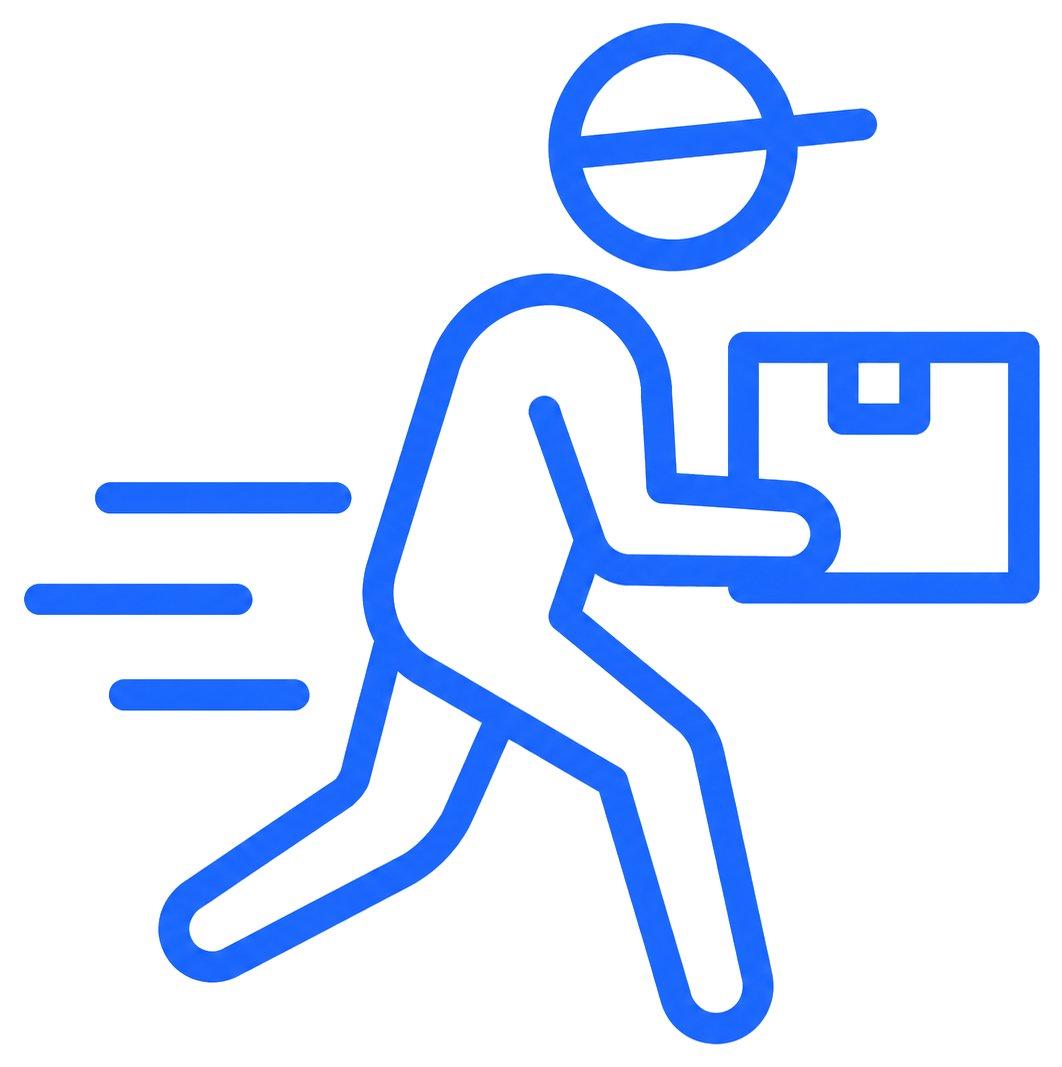
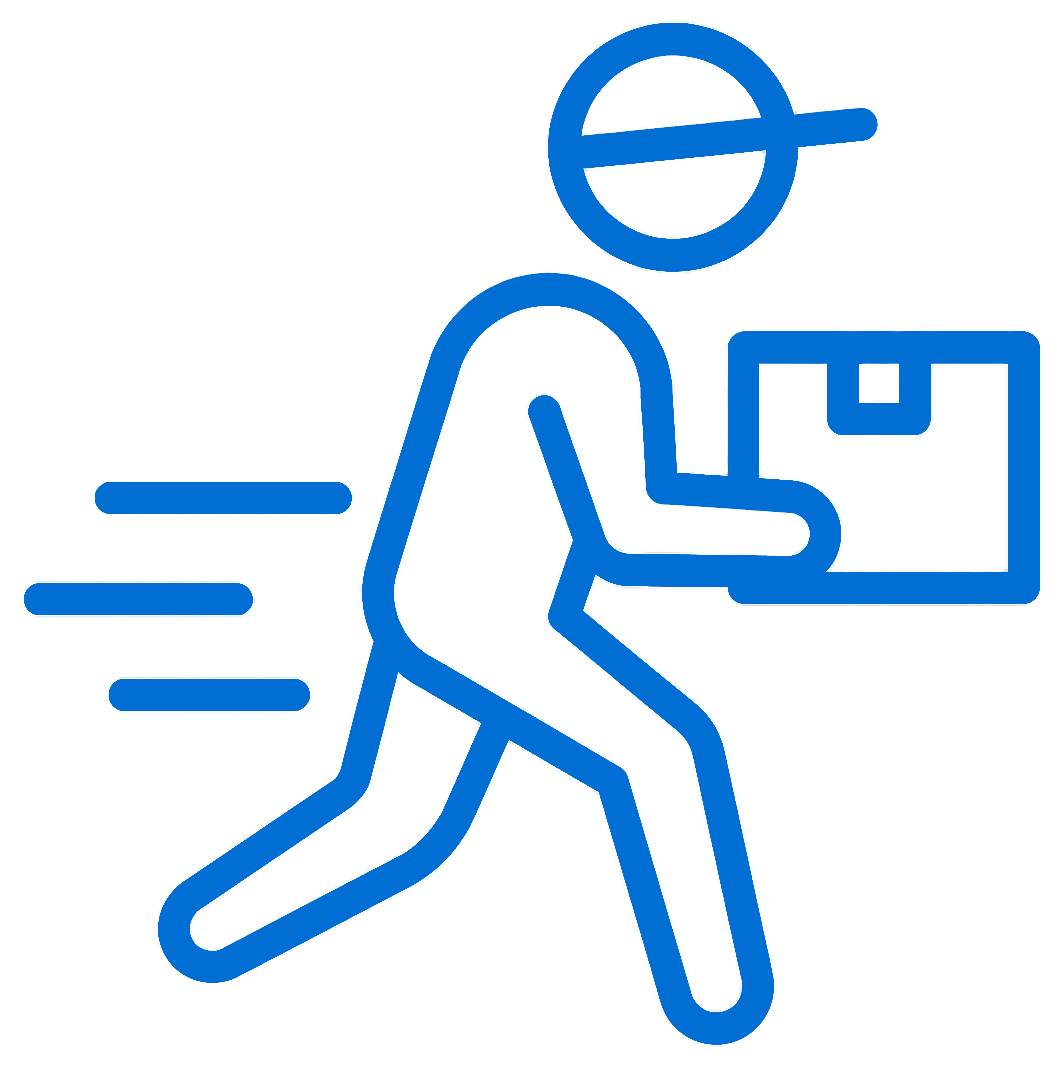
обновлены зависимости Vite: изменены хеши конфигурации и браузера, обновлены пути к модулям Vue в node_modules с использованием .pnpm, заменены комментарии @__NO_SIDE_EFFECTS__ на /* @__NO_SIDE_EFFECTS__ */, добавлена source map для vue.js

Changed region(s): [[0.0932, 0.0, 0.9944, 0.9897], [0.0, 0.5258, 0.2486, 0.5876]]

diff --git a/src/components/Hero.vue b/src/components/Hero.vue
@@ -2,7 +2,8 @@
 import { ref, computed, onMounted } from 'vue'
 import type { Lang } from '../translations'
 import { translations } from '../translations'
-import heroPhoto from '../imports/Снимок экрана 2026-07-14 121719.png'
+import heroPhotoDesktop from '../imports/Дизайн без названия (6).png'
+import heroPhotoMobile from '../imports/Дизайн без названия (7).png'
 import ktLogo from '../imports/KT_logo_2_W (1).png'
 import tvPlusLogo from '../imports/white flat logo TV+ (1).png'
 import LanguageSwitcher from './LanguageSwitcher.vue'
@@ -80,6 +81,14 @@ const heroTitleLast = computed(() => t.value.hero.title.split('. ').slice(-1)[0]
       </svg>
     </div>
 
+    <!-- Desktop photo — bled flush into the section's top-right corner, independent of the padded grid -->
+    <img
+      :src="heroPhotoDesktop"
+      class="hero-photo-desktop"
+      :style="{ opacity: loaded ? 1 : 0, transition: 'opacity 0.8s ease 0.5s' }"
+      alt="Ученица с планшетом Казахтелеком"
+    />
+
     <!-- Single responsive grid — order controlled purely via CSS (grid-template-areas) -->
     <div class="hero-layout" style="position: relative; z-index: 10;">
       <!-- Header — logos -->
@@ -134,23 +143,13 @@ const heroTitleLast = computed(() => t.value.hero.title.split('. ').slice(-1)[0]
         </p>
       </div>
 
-      <!-- Image — backpack and tablet -->
-      <div class="hero-right-col" style="position: relative; display: flex; justify-content: center; align-items: center;">
-        <div
-          class="hero-photo"
-          :style="{
-            aspectRatio: '983 / 768',
-            backgroundImage: `url(${heroPhoto})`,
-            backgroundRepeat: 'no-repeat',
-            backgroundSize: 'cover',
-            backgroundPosition: 'center',
-            opacity: loaded ? 1 : 0,
-            transform: loaded ? 'translateY(0)' : 'translateY(40px)',
-            transition: 'opacity 0.8s ease 0.5s, transform 0.8s cubic-bezier(0.22,1,0.36,1) 0.5s',
-            animation: loaded ? 'floatBackpack 4.2s ease-in-out 1s infinite' : 'none',
-          }"
-          aria-label="Планшет и рюкзак как на референсном фото"
-          role="img"
+      <!-- Image slot — reserves column width on desktop; holds the actual photo on mobile -->
+      <div class="hero-right-col">
+        <img
+          :src="heroPhotoMobile"
+          class="hero-photo-mobile"
+          :style="{ opacity: loaded ? 1 : 0, transition: 'opacity 0.8s ease 0.5s' }"
+          alt="Ученица с планшетом Казахтелеком"
         />
       </div>
 

diff --git a/src/index.css b/src/index.css
@@ -54,8 +54,23 @@ body {
 .hero-heading { font-size: clamp(38px, 5.5vw, 76px); line-height: 1.1; margin: 0 0 20px; }
 .hero-desc { font-size: 20px; line-height: 1.7; margin: 0 0 36px; max-width: 400px; }
 
-.hero-right-col { grid-area: image; min-height: 460px; display: flex; align-items: center; justify-content: center; overflow: hidden; }
-.hero-photo { width: 820px; max-width: 100%; }
+.hero-right-col { grid-area: image; min-height: 460px; }
+
+.hero-photo-desktop {
+  position: absolute;
+  top: 0;
+  right: 0;
+  height: 100vh;
+  max-height: 920px;
+  width: auto;
+  max-width: 50vw;
+  object-fit: contain;
+  object-position: top right;
+  z-index: 1;
+  pointer-events: none;
+  display: block;
+}
+.hero-photo-mobile { display: none; }
 
 .hero-cta { grid-area: cta; }
 .cta-yellow { padding: 22px 0; font-size: 18px; width: 100%; max-width: 400px; }
@@ -99,12 +114,16 @@ body {
     margin: 16px 0 0;
     max-width: 100%;
   }
-  .hero-right-col { min-height: auto; overflow: hidden; }
-  .hero-photo { width: 100%; max-width: 100%; margin: 0 auto; }
+  .hero-right-col { min-height: auto; overflow: hidden; display: flex; justify-content: flex-end; }
+  .hero-photo-desktop { display: none; }
+  .hero-photo-mobile { display: block; width: 92%; height: auto; margin-right: -20px; }
   .hero-cta {
     display: flex;
     flex-direction: column;
     align-items: center;
+    position: relative;
+    z-index: 2;
+    margin-top: -90px;
   }
   .cta-yellow {
     width: 100%;
@@ -193,7 +212,7 @@ body {
 }
 
 .hero-bg {
-  background: linear-gradient(135deg, #001060 0%, #002299 35%, #0047D9 70%, #0055FF 100%);
+  background: linear-gradient(135deg, #016ed3 0%, #0087f0 100%);
   animation: bgDrift 12s ease-in-out infinite;
   background-size: 110% 110%;
 }

diff --git a/src/components/Pricing.vue b/src/components/Pricing.vue
@@ -26,7 +26,7 @@ const scrollToCTA = () => {
       </div>
 
       <!-- Unified Card Container -->
-      <div class="max-w-5xl mx-auto bg-white border-2 border-blue-600 rounded-[28px] md:rounded-[36px] overflow-hidden shadow-xl flex flex-col md:flex-row">
+      <div class="max-w-5xl mx-auto bg-white border-2 rounded-[28px] md:rounded-[36px] overflow-hidden shadow-xl flex flex-col md:flex-row" style="border-color: #016ed3;">
 
         <!-- LEFT COLUMN: Premium list (2/3) -->
         <div class="p-6 md:p-10 md:w-2/3 border-b-2 md:border-b-0 md:border-r-2 border-dashed border-gray-200">
@@ -37,21 +37,21 @@ const scrollToCTA = () => {
           <div class="space-y-6 md:space-y-8">
             <div v-for="(item, index) in t.features" :key="index" class="flex items-start gap-4">
               <div class="shrink-0 mt-1">
-                <svg v-if="index === 0" class="w-6 h-6 text-blue-600" fill="none" viewBox="0 0 24 24" stroke="currentColor" stroke-width="2" stroke-linecap="round" stroke-linejoin="round">
+                <svg v-if="index === 0" class="w-6 h-6" style="color: #016ed3;" fill="none" viewBox="0 0 24 24" stroke="currentColor" stroke-width="2" stroke-linecap="round" stroke-linejoin="round">
                   <path d="M5 12.55a11 11 0 0 1 14.08 0" />
                   <path d="M1.42 9a16 16 0 0 1 21.16 0" />
                   <path d="M8.53 16.11a6 6 0 0 1 6.95 0" />
                   <line x1="12" y1="20" x2="12.01" y2="20" stroke-width="3" />
                 </svg>
-                <svg v-else-if="index === 1" class="w-6 h-6 text-blue-600" fill="none" viewBox="0 0 24 24" stroke="currentColor" stroke-width="2" stroke-linecap="round" stroke-linejoin="round">
+                <svg v-else-if="index === 1" class="w-6 h-6" style="color: #016ed3;" fill="none" viewBox="0 0 24 24" stroke="currentColor" stroke-width="2" stroke-linecap="round" stroke-linejoin="round">
                   <rect x="5" y="2" width="14" height="20" rx="2" ry="2" />
                   <line x1="12" y1="18" x2="12.01" y2="18" stroke-width="3" />
                 </svg>
-                <svg v-else-if="index === 2" class="w-6 h-6 text-blue-600" fill="none" viewBox="0 0 24 24" stroke="currentColor" stroke-width="2" stroke-linecap="round" stroke-linejoin="round">
+                <svg v-else-if="index === 2" class="w-6 h-6" style="color: #016ed3;" fill="none" viewBox="0 0 24 24" stroke="currentColor" stroke-width="2" stroke-linecap="round" stroke-linejoin="round">
                   <rect x="4" y="2" width="16" height="20" rx="3" />
                   <line x1="12" y1="20" x2="12" y2="20" stroke-width="3" />
                 </svg>
-                <svg v-else class="w-6 h-6 text-blue-600" fill="none" viewBox="0 0 24 24" stroke="currentColor" stroke-width="2" stroke-linecap="round" stroke-linejoin="round">
+                <svg v-else class="w-6 h-6" style="color: #016ed3;" fill="none" viewBox="0 0 24 24" stroke="currentColor" stroke-width="2" stroke-linecap="round" stroke-linejoin="round">
                   <rect x="2" y="3" width="20" height="14" rx="2" />
                   <line x1="8" y1="21" x2="16" y2="21" />
                   <line x1="12" y1="17" x2="12" y2="21" />
@@ -73,7 +73,7 @@ const scrollToCTA = () => {
         <!-- RIGHT COLUMN: Pricing & Button (1/3) -->
         <div class="p-6 md:p-10 md:w-1/3 bg-blue-50/40 flex flex-col justify-between items-center text-center">
           <div class="my-auto">
-            <p class="text-xs uppercase tracking-widest text-blue-600 font-extrabold mb-2">
+            <p class="text-xs uppercase tracking-widest font-extrabold mb-2" style="color: #016ed3;">
               {{ t.priceLabel }}
             </p>
 
@@ -89,7 +89,8 @@ const scrollToCTA = () => {
           <div class="w-full mt-6">
             <button
               @click="scrollToCTA"
-              class="block w-full text-center bg-blue-600 hover:bg-blue-700 text-white font-extrabold py-4 px-6 rounded-2xl shadow-lg shadow-blue-600/10 transition-all duration-200 active:scale-[0.98]"
+              class="block w-full text-center text-white font-extrabold py-4 px-6 rounded-2xl shadow-lg transition-all duration-200 active:scale-[0.98]"
+              style="background: linear-gradient(135deg, #016ed3 0%, #0087f0 100%); box-shadow: 0 10px 20px -5px rgba(1, 110, 211, 0.35);"
             >
               {{ t.btn }}
             </button>

diff --git a/src/components/Steps.vue b/src/components/Steps.vue
@@ -32,11 +32,11 @@ const steps = computed(() => [
 
           <!-- Modern SVG Icon Wrapper -->
           <div class="w-16 h-16 rounded-2xl bg-blue-50 flex items-center justify-center mb-6">
-            <svg v-if="idx === 0" class="w-8 h-8 text-blue-600" fill="none" viewBox="0 0 24 24" stroke="currentColor" stroke-width="2">
+            <svg v-if="idx === 0" class="w-8 h-8" style="color: #016ed3;" fill="none" viewBox="0 0 24 24" stroke="currentColor" stroke-width="2">
               <path stroke-linecap="round" stroke-linejoin="round" d="M12 20h9" />
               <path stroke-linecap="round" stroke-linejoin="round" d="M16.5 3.5a2.121 2.121 0 0 1 3 3L7 19l-4 1 1-4L16.5 3.5z" />
             </svg>
-            <svg v-else-if="idx === 1" class="w-8 h-8 text-blue-600" fill="none" viewBox="0 0 24 24" stroke="currentColor" stroke-width="2">
+            <svg v-else-if="idx === 1" class="w-8 h-8" style="color: #016ed3;" fill="none" viewBox="0 0 24 24" stroke="currentColor" stroke-width="2">
               <path stroke-linecap="round" stroke-linejoin="round" d="M22 16.92v3a2 2 0 0 1-2.18 2 19.79 19.79 0 0 1-8.63-3.07 19.5 19.5 0 0 1-6-6 19.79 19.79 0 0 1-3.07-8.67A2 2 0 0 1 4.11 2h3a2 2 0 0 1 2 1.72c.127.96.361 1.903.7 2.81a2 2 0 0 1-.45 2.11L8.09 9.91a16 16 0 0 0 6 6l1.27-1.27a2 2 0 0 1 2.11-.45c.907.339 1.85.573 2.81.7A2 2 0 0 1 22 16.92z" />
             </svg>
             <img v-else :src="courierIcon" alt="" class="w-14 h-14 object-contain" />

diff --git a/src/components/BottomCTA.vue b/src/components/BottomCTA.vue
@@ -37,7 +37,7 @@ onUnmounted(() => {
 
 <template>
   <section id="final-cta" class="bottom-cta-section" style="
-    background: linear-gradient(135deg, #001060 0%, #002299 40%, #0047D9 80%, #0055FF 100%);
+    background: linear-gradient(135deg, #016ed3 0%, #0087f0 100%);
     padding: 72px 40px;
     position: relative;
     overflow: hidden;